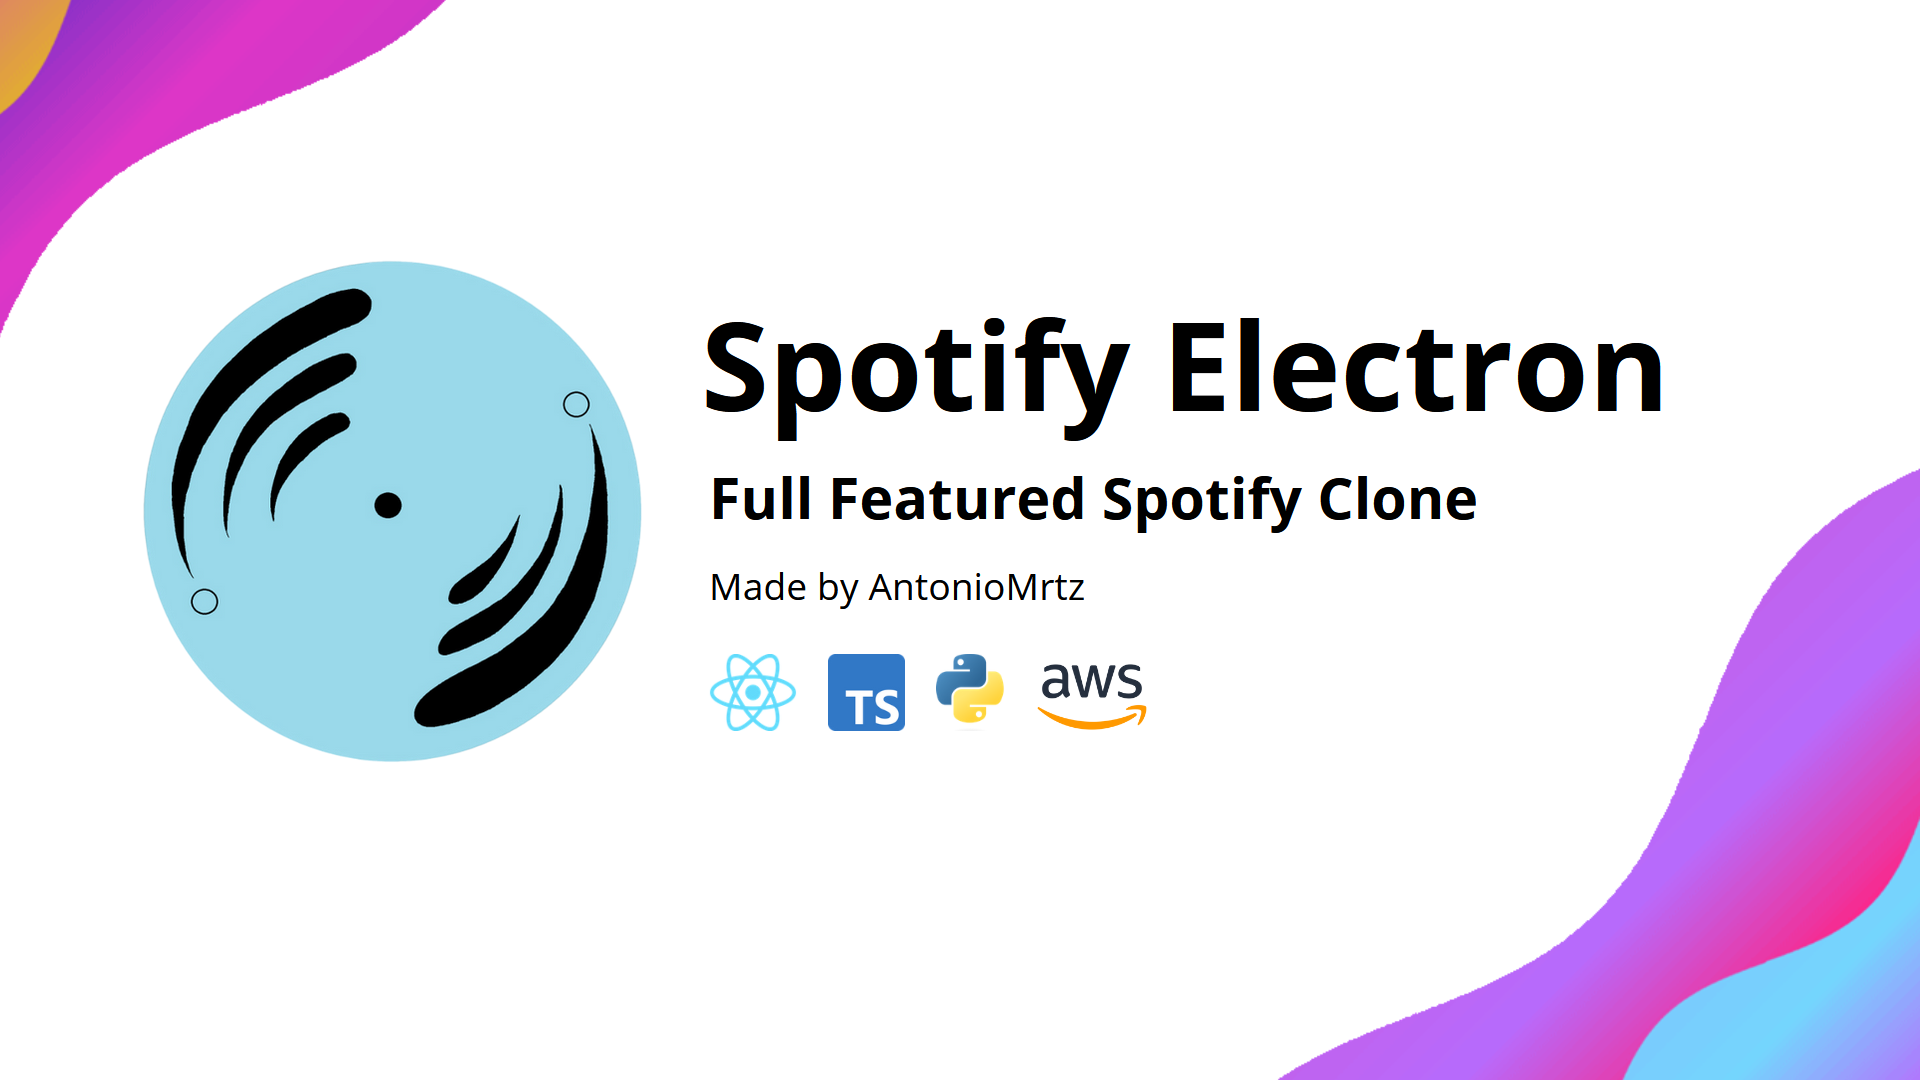
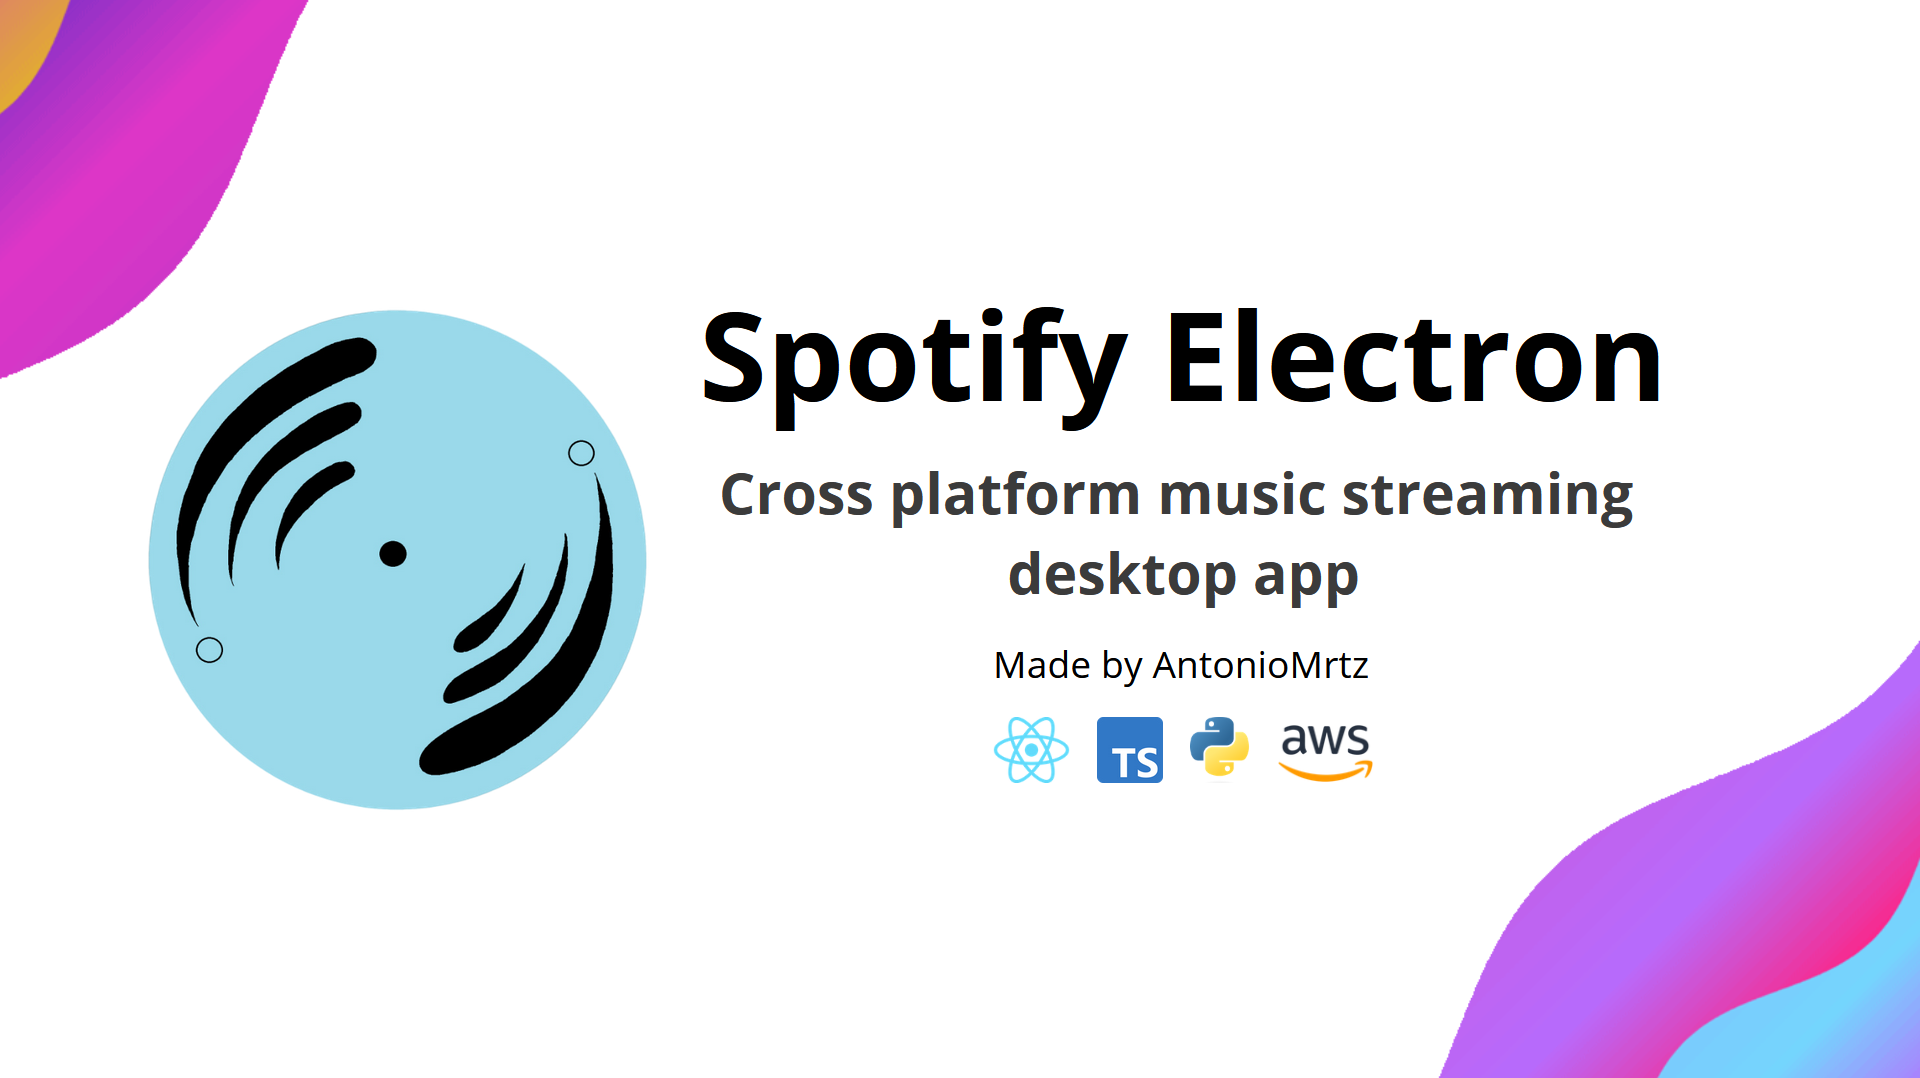
docs : upload new peview video and social preview image with new description

diff --git a/README.md b/README.md
@@ -1,6 +1,10 @@
 # Spotify Electron
 
-![Spotify Electron Media Preview](https://raw.githubusercontent.com/AntonioMrtz/SpotifyElectron/master/assets/videos/SpotifyElectronReadmePreview.gif)
+![Spotify Electron Media Preview](assets/videos/SpotifyElectronReadmePreview.gif)
+
+## Overview
+
+[Spotify Electron](https://antoniomrtz.github.io/SpotifyElectron_Web/) is a open source cross-platform desktop music streaming app
 
 ## 🌐 Website
 
@@ -48,15 +52,15 @@ to be escalable and ready for quick iterations of features.
 
 ## Software Architecture
 
-![Spotify_Electron_Software_Diagram](assets/images/master-streaming-lambda-arch.png)
+![Spotify_Electron_Software_Diagram](assets/images/architecture/master-streaming-lambda-arch.png)
 
 ### Song architecture
 
-![Spotify_Electron_Software_Song_Diagram](assets/images/song_architecture_aws.png)
+![Spotify_Electron_Software_Song_Diagram](assets/images/architecture/song_architecture_aws.png)
 
 ### Frontend architecture
 
-![Spotify_Electron_Frontend_Diagram](assets/images/frontend-arch.png)
+![Spotify_Electron_Frontend_Diagram](assets/images/architecture/frontend-arch.png)
 
 ---
 
